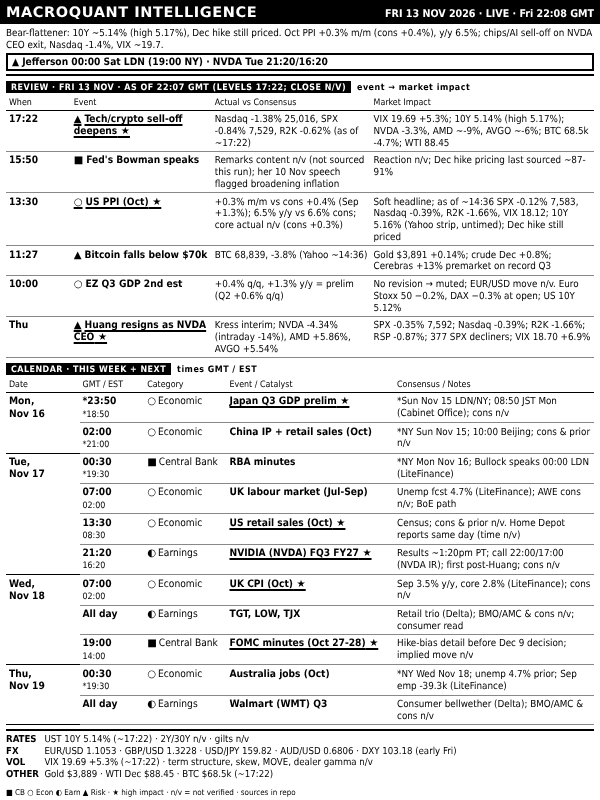
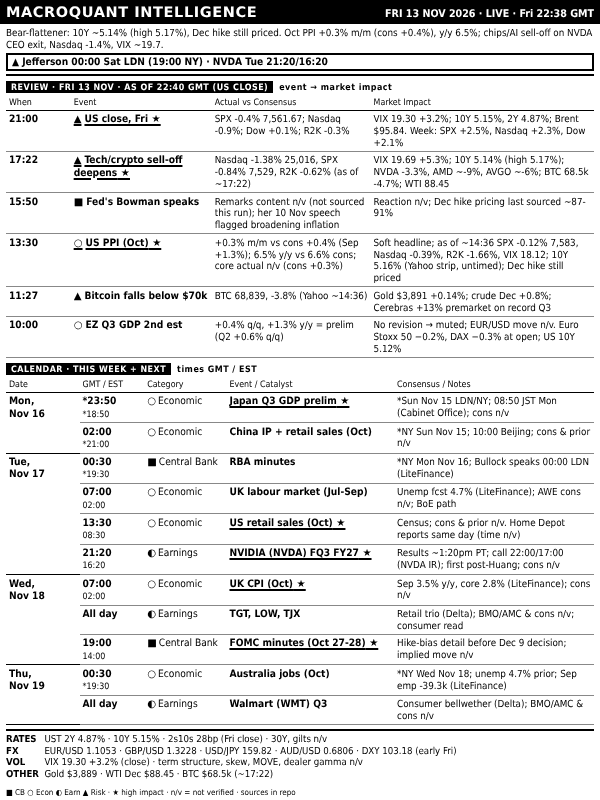
dashboard: FRI 13 NOV 2026 LIVE 22:40
Claude-Session: https://claude.ai/code/session_016SJqa4B72ngh4grrBpwsjQ

diff --git a/out/dashboard.html b/out/dashboard.html
@@ -38,12 +38,12 @@ table.bd{border-collapse:collapse;width:100%;table-layout:fixed;margin-top:1px}
 </style></head><body>
 <div id="root">
  <div class="hdr"><span class="t">MACROQUANT INTELLIGENCE</span>
-  <span class="r">FRI 13 NOV 2026 · LIVE · Fri 22:08 GMT</span></div>
+  <span class="r">FRI 13 NOV 2026 · LIVE · Fri 22:38 GMT</span></div>
  <div class="ban"><div class="rg">Bear-flattener: 10Y ~5.14% (high 5.17%), Dec hike still priced. Oct PPI +0.3% m/m (cons +0.4%), y/y 6.5%; chips/AI sell-off on NVDA CEO exit, Nasdaq -1.4%, VIX ~19.7.</div><div class="al">▲ Jefferson 00:00 Sat LDN (19:00 NY) · NVDA Tue 21:20/16:20</div></div>
- <div class="sl"><span>REVIEW · FRI 13 NOV · AS OF 22:07 GMT (LEVELS 17:22; CLOSE N/V)</span>event → market impact</div><table class="bd rv"><colgroup><col style="width:11%"><col style="width:24%"><col style="width:27%"><col></colgroup><tr><th>When</th><th>Event</th><th>Actual vs Consensus</th><th>Market Impact</th></tr><tr class="h"><td class="tm"><b>17:22</b></td><td class="ev"><i>▲</i>Tech/crypto sell-off deepens</td><td class="ac">Nasdaq -1.38% 25,016, SPX -0.84% 7,529, R2K -0.62% (as of ~17:22)</td><td class="nt">VIX 19.69 +5.3%; 10Y 5.14% (high 5.17%); NVDA -3.3%, AMD ~-9%, AVGO ~-6%; BTC 68.5k -4.7%; WTI 88.45</td></tr><tr><td class="tm"><b>15:50</b></td><td class="ev"><i>■</i>Fed's Bowman speaks</td><td class="ac">Remarks content n/v (not sourced this run); her 10 Nov speech flagged broadening inflation</td><td class="nt">Reaction n/v; Dec hike pricing last sourced ~87-91%</td></tr><tr class="h"><td class="tm"><b>13:30</b></td><td class="ev"><i>○</i>US PPI (Oct)</td><td class="ac">+0.3% m/m vs cons +0.4% (Sep +1.3%); 6.5% y/y vs 6.6% cons; core actual n/v (cons +0.3%)</td><td class="nt">Soft headline; as of ~14:36 SPX -0.12% 7,583, Nasdaq -0.39%, R2K -1.66%, VIX 18.12; 10Y 5.16% (Yahoo strip, untimed); Dec hike still priced</td></tr><tr><td class="tm"><b>11:27</b></td><td class="ev"><i>▲</i>Bitcoin falls below $70k</td><td class="ac">BTC 68,839, -3.8% (Yahoo ~14:36)</td><td class="nt">Gold $3,891 +0.14%; crude Dec +0.8%; Cerebras +13% premarket on record Q3</td></tr><tr><td class="tm"><b>10:00</b></td><td class="ev"><i>○</i>EZ Q3 GDP 2nd est</td><td class="ac">+0.4% q/q, +1.3% y/y = prelim (Q2 +0.6% q/q)</td><td class="nt">No revision → muted; EUR/USD move n/v. Euro Stoxx 50 −0.2%, DAX −0.3% at open; US 10Y 5.12%</td></tr><tr class="h"><td class="tm"><b>Thu</b></td><td class="ev"><i>▲</i>Huang resigns as NVDA CEO</td><td class="ac">Kress interim; NVDA -4.34% (intraday -14%), AMD +5.86%, AVGO +5.54%</td><td class="nt">SPX -0.35% 7,592; Nasdaq -0.39%; R2K -1.66%; RSP -0.87%; 377 SPX decliners; VIX 18.70 +6.9%</td></tr></table>
+ <div class="sl"><span>REVIEW · FRI 13 NOV · AS OF 22:40 GMT (US CLOSE)</span>event → market impact</div><table class="bd rv"><colgroup><col style="width:11%"><col style="width:24%"><col style="width:27%"><col></colgroup><tr><th>When</th><th>Event</th><th>Actual vs Consensus</th><th>Market Impact</th></tr><tr class="h"><td class="tm"><b>21:00</b></td><td class="ev"><i>▲</i>US close, Fri</td><td class="ac">SPX -0.4% 7,561.67; Nasdaq -0.9%; Dow +0.1%; R2K -0.3%</td><td class="nt">VIX 19.30 +3.2%; 10Y 5.15%, 2Y 4.87%; Brent $95.84. Week: SPX +2.5%, Nasdaq +2.3%, Dow +2.1%</td></tr><tr class="h"><td class="tm"><b>17:22</b></td><td class="ev"><i>▲</i>Tech/crypto sell-off deepens</td><td class="ac">Nasdaq -1.38% 25,016, SPX -0.84% 7,529, R2K -0.62% (as of ~17:22)</td><td class="nt">VIX 19.69 +5.3%; 10Y 5.14% (high 5.17%); NVDA -3.3%, AMD ~-9%, AVGO ~-6%; BTC 68.5k -4.7%; WTI 88.45</td></tr><tr><td class="tm"><b>15:50</b></td><td class="ev"><i>■</i>Fed's Bowman speaks</td><td class="ac">Remarks content n/v (not sourced this run); her 10 Nov speech flagged broadening inflation</td><td class="nt">Reaction n/v; Dec hike pricing last sourced ~87-91%</td></tr><tr class="h"><td class="tm"><b>13:30</b></td><td class="ev"><i>○</i>US PPI (Oct)</td><td class="ac">+0.3% m/m vs cons +0.4% (Sep +1.3%); 6.5% y/y vs 6.6% cons; core actual n/v (cons +0.3%)</td><td class="nt">Soft headline; as of ~14:36 SPX -0.12% 7,583, Nasdaq -0.39%, R2K -1.66%, VIX 18.12; 10Y 5.16% (Yahoo strip, untimed); Dec hike still priced</td></tr><tr><td class="tm"><b>11:27</b></td><td class="ev"><i>▲</i>Bitcoin falls below $70k</td><td class="ac">BTC 68,839, -3.8% (Yahoo ~14:36)</td><td class="nt">Gold $3,891 +0.14%; crude Dec +0.8%; Cerebras +13% premarket on record Q3</td></tr><tr><td class="tm"><b>10:00</b></td><td class="ev"><i>○</i>EZ Q3 GDP 2nd est</td><td class="ac">+0.4% q/q, +1.3% y/y = prelim (Q2 +0.6% q/q)</td><td class="nt">No revision → muted; EUR/USD move n/v. Euro Stoxx 50 −0.2%, DAX −0.3% at open; US 10Y 5.12%</td></tr></table>
  <div class="sl"><span>CALENDAR · THIS WEEK + NEXT</span>times GMT / EST</div>
  <table class="bd"><colgroup><col style="width:12.5%"><col style="width:11%"><col style="width:14%"><col style="width:28.5%"><col></colgroup><tr><th>Date</th><th>GMT / EST</th><th>Category</th><th>Event / Catalyst</th><th>Consensus / Notes</th></tr><tr class="g0 h"><td class="dt" rowspan="2">Mon,<br>Nov&nbsp;16</td><td class="tm"><b>*23:50</b><span>*18:50</span></td><td class="ct"><i>○</i>Economic</td><td class="ev">Japan Q3 GDP prelim</td><td class="nt">*Sun Nov 15 LDN/NY; 08:50 JST Mon (Cabinet Office); cons n/v</td></tr><tr class=""><td class="tm"><b>02:00</b><span>*21:00</span></td><td class="ct"><i>○</i>Economic</td><td class="ev">China IP + retail sales (Oct)</td><td class="nt">*NY Sun Nov 15; 10:00 Beijing; cons &amp; prior n/v</td></tr><tr class="g0"><td class="dt" rowspan="4">Tue,<br>Nov&nbsp;17</td><td class="tm"><b>00:30</b><span>*19:30</span></td><td class="ct"><i>■</i>Central Bank</td><td class="ev">RBA minutes</td><td class="nt">*NY Mon Nov 16; Bullock speaks 00:00 LDN (LiteFinance)</td></tr><tr class=""><td class="tm"><b>07:00</b><span>02:00</span></td><td class="ct"><i>○</i>Economic</td><td class="ev">UK labour market (Jul-Sep)</td><td class="nt">Unemp fcst 4.7% (LiteFinance); AWE cons n/v; BoE path</td></tr><tr class="h"><td class="tm"><b>13:30</b><span>08:30</span></td><td class="ct"><i>○</i>Economic</td><td class="ev">US retail sales (Oct)</td><td class="nt">Census; cons &amp; prior n/v. Home Depot reports same day (time n/v)</td></tr><tr class="h"><td class="tm"><b>21:20</b><span>16:20</span></td><td class="ct"><i>◐</i>Earnings</td><td class="ev">NVIDIA (NVDA) FQ3 FY27</td><td class="nt">Results ~1:20pm PT; call 22:00/17:00 (NVDA IR); first post-Huang; cons n/v</td></tr><tr class="g0 h"><td class="dt" rowspan="3">Wed,<br>Nov&nbsp;18</td><td class="tm"><b>07:00</b><span>02:00</span></td><td class="ct"><i>○</i>Economic</td><td class="ev">UK CPI (Oct)</td><td class="nt">Sep 3.5% y/y, core 2.8% (LiteFinance); cons n/v</td></tr><tr class=""><td class="tm"><b>All day</b></td><td class="ct"><i>◐</i>Earnings</td><td class="ev">TGT, LOW, TJX</td><td class="nt">Retail trio (Delta); BMO/AMC &amp; cons n/v; consumer read</td></tr><tr class="h"><td class="tm"><b>19:00</b><span>14:00</span></td><td class="ct"><i>■</i>Central Bank</td><td class="ev">FOMC minutes (Oct 27-28)</td><td class="nt">Hike-bias detail before Dec 9 decision; implied move n/v</td></tr><tr class="g0"><td class="dt" rowspan="2">Thu,<br>Nov&nbsp;19</td><td class="tm"><b>00:30</b><span>*19:30</span></td><td class="ct"><i>○</i>Economic</td><td class="ev">Australia jobs (Oct)</td><td class="nt">*NY Wed Nov 18; unemp 4.7% prior; Sep emp -39.3k (LiteFinance)</td></tr><tr class=""><td class="tm"><b>All day</b></td><td class="ct"><i>◐</i>Earnings</td><td class="ev">Walmart (WMT) Q3</td><td class="nt">Consumer bellwether (Delta); BMO/AMC &amp; cons n/v</td></tr></table>
- <div class="lv"><div><b>RATES</b>UST 10Y 5.14% (~17:22) · 2Y/30Y n/v · gilts n/v</div><div><b>FX</b>EUR/USD 1.1053 · GBP/USD 1.3228 · USD/JPY 159.82 · AUD/USD 0.6806 · DXY 103.18 (early Fri)</div><div><b>VOL</b>VIX 19.69 +5.3% (~17:22) · term structure, skew, MOVE, dealer gamma n/v</div><div><b>OTHER</b>Gold $3,889 · WTI Dec $88.45 · BTC $68.5k (~17:22)</div></div>
+ <div class="lv"><div><b>RATES</b>UST 2Y 4.87% · 10Y 5.15% · 2s10s 28bp (Fri close) · 30Y, gilts n/v</div><div><b>FX</b>EUR/USD 1.1053 · GBP/USD 1.3228 · USD/JPY 159.82 · AUD/USD 0.6806 · DXY 103.18 (early Fri)</div><div><b>VOL</b>VIX 19.30 +3.2% (close) · term structure, skew, MOVE, dealer gamma n/v</div><div><b>OTHER</b>Gold $3,889 · WTI Dec $88.45 · BTC $68.5k (~17:22)</div></div>
 </div>
 <div class="foot">■ CB ○ Econ ◐ Earn ▲ Risk · ★ high impact · n/v = not verified · sources in repo</div>
 </body></html>
